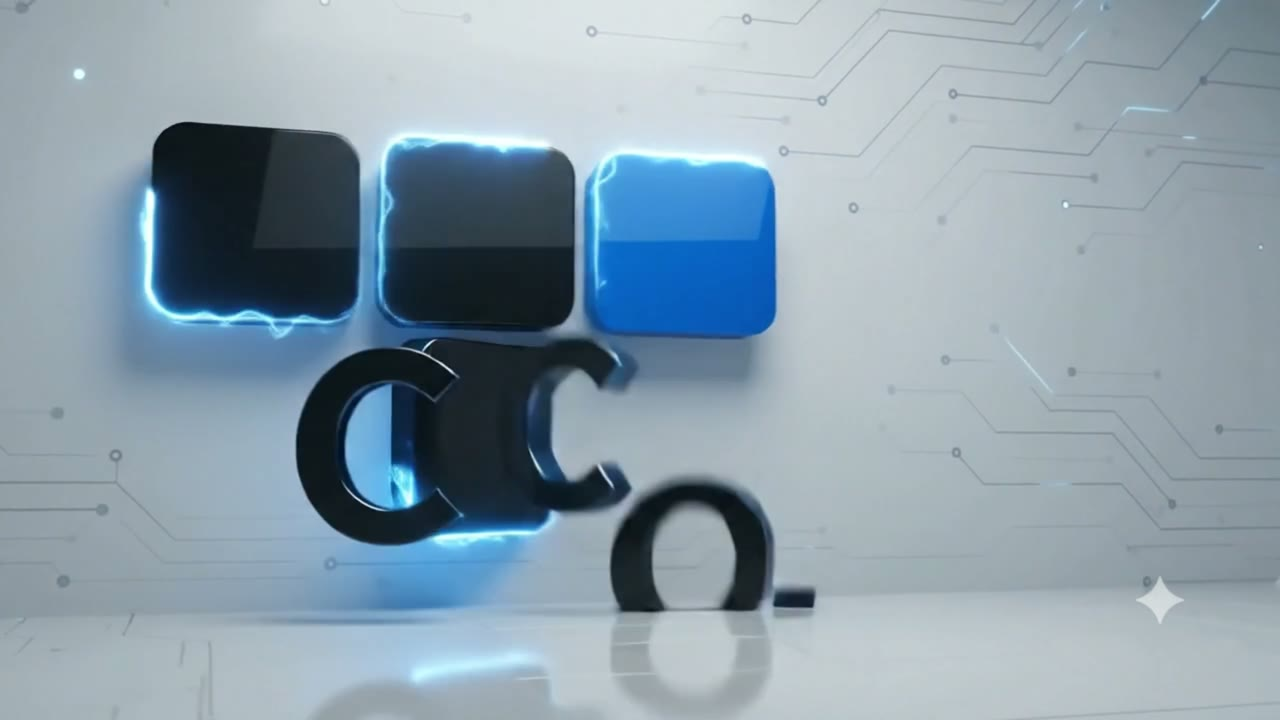
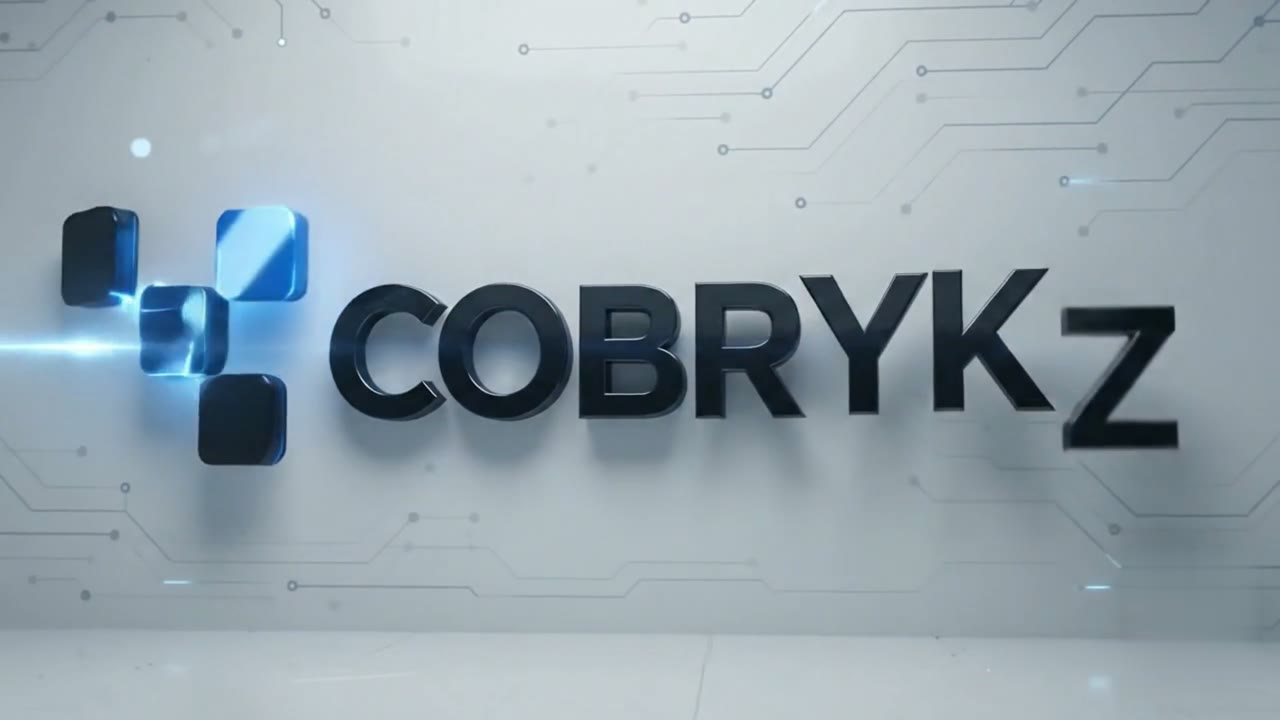
fix: enlarge hero film and remove watermark

diff --git a/components/sections/Hero.tsx b/components/sections/Hero.tsx
@@ -16,7 +16,7 @@ export default function Hero() {
       />
       <TrustField className="pointer-events-none absolute inset-0 hidden h-full w-full opacity-90 lg:block" />
 
-      <div className="section-shell relative z-10 grid items-center gap-9 lg:grid-cols-[1.12fr_0.88fr] lg:gap-16">
+      <div className="relative z-10 mx-auto grid w-[calc(100%-2.5rem)] max-w-[1560px] items-center gap-9 md:w-[calc(100%-5rem)] lg:grid-cols-[0.86fr_1.14fr] lg:gap-14">
         <div className="max-w-[700px]">
           <div className="mb-5 flex items-center gap-3 text-[13px] font-semibold text-slate md:mb-6">
             <span className="h-2 w-2 rounded-full bg-evergreen" aria-hidden="true" />
@@ -55,7 +55,7 @@ export default function Hero() {
 
         </div>
 
-        <div className="relative mx-auto w-full max-w-[470px] lg:ml-auto">
+        <div className="relative mx-auto w-full lg:ml-auto">
           <div
             className="absolute -left-5 -top-5 hidden h-[78%] w-[82%] border border-blue/20 bg-white/35 lg:block"
             aria-hidden="true"